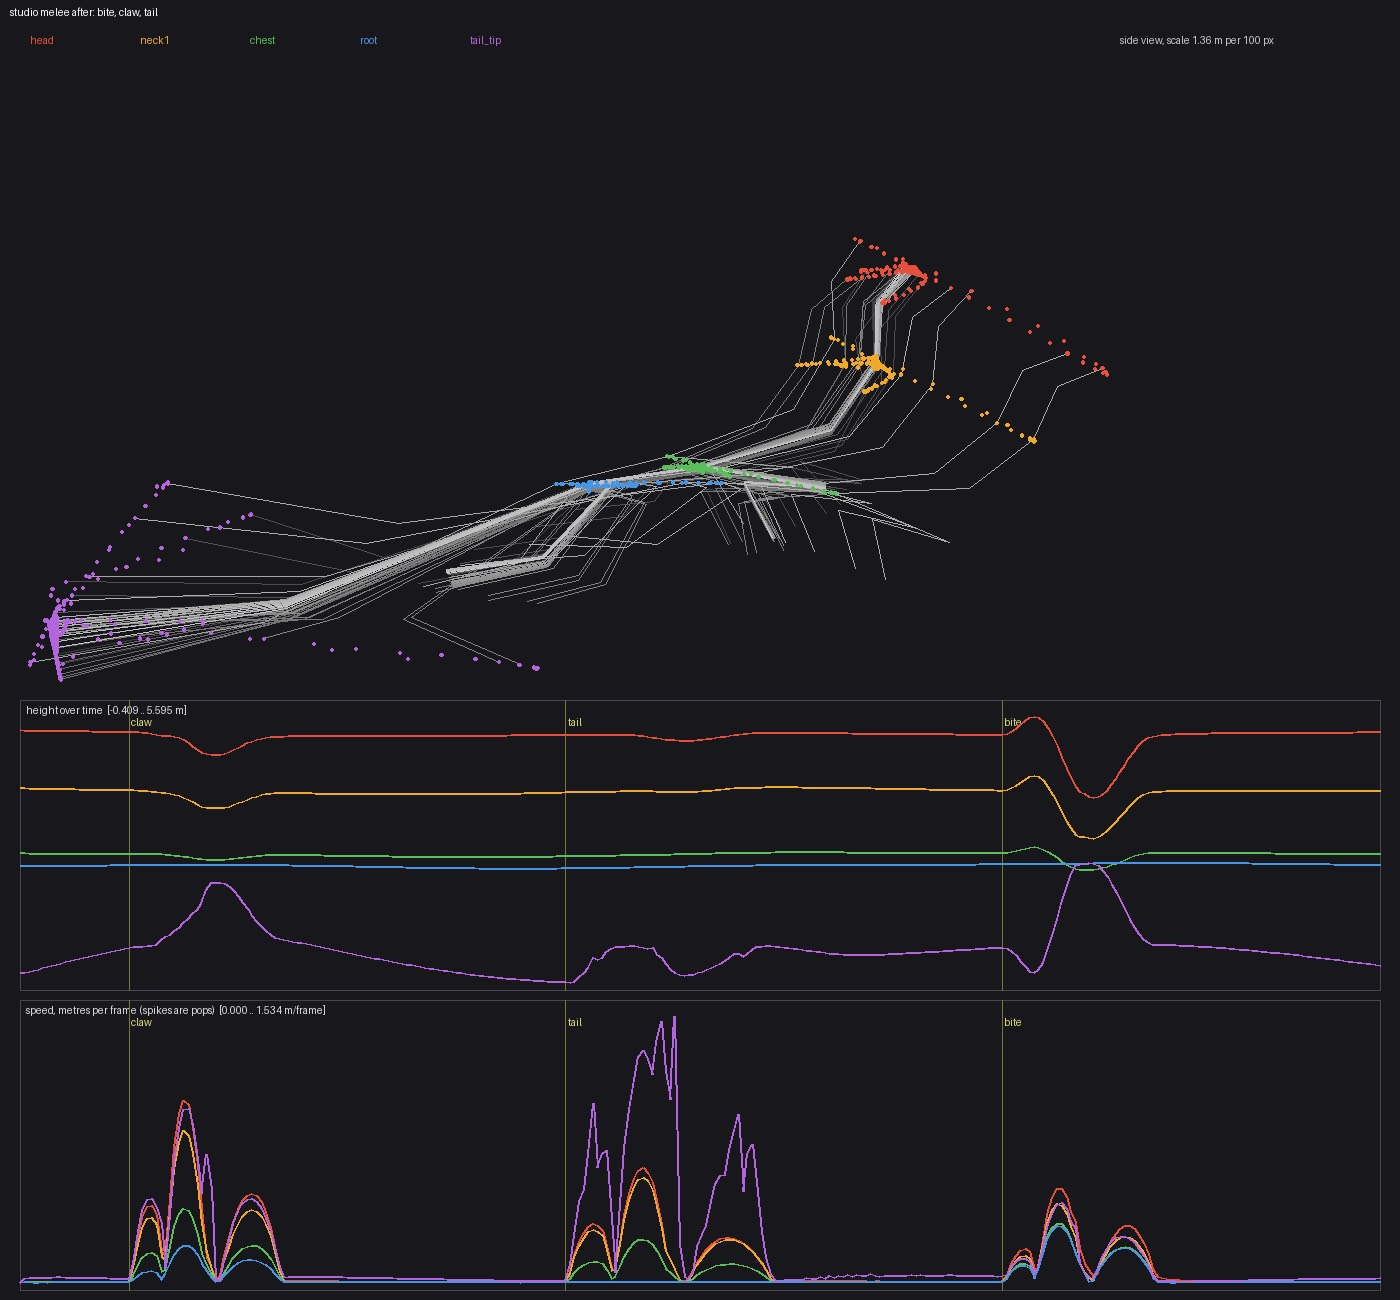
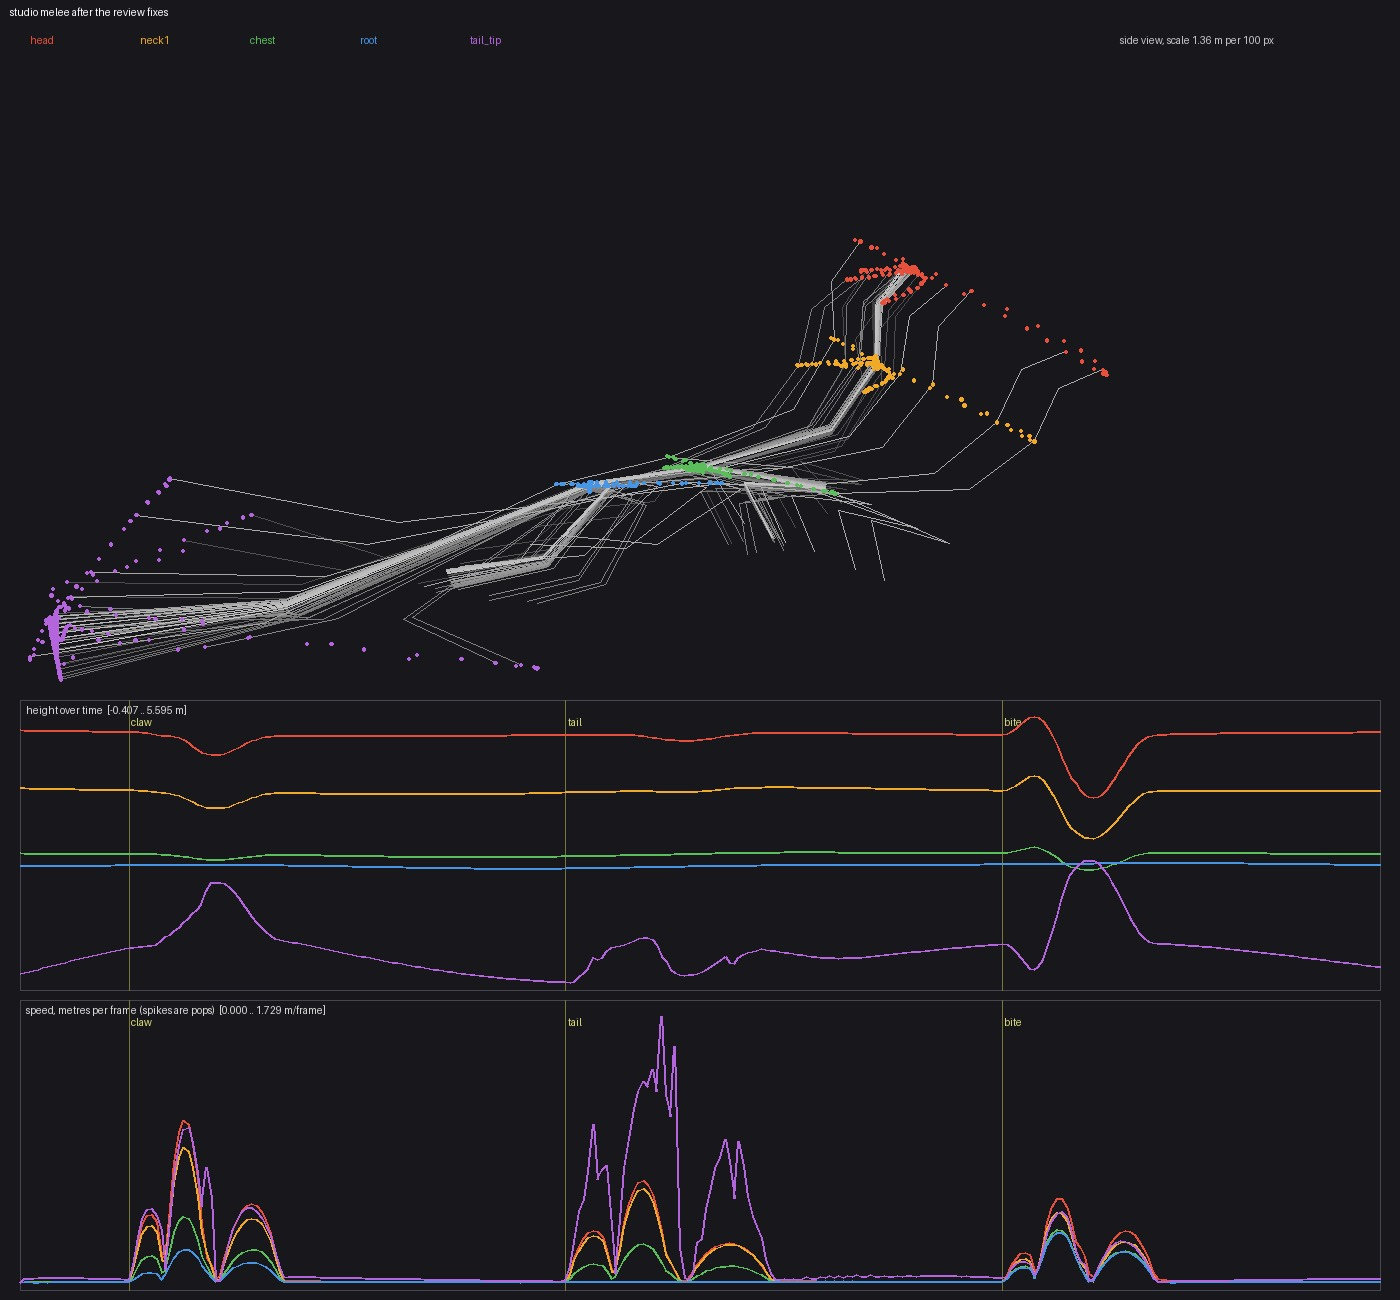
Rig: fix seven defects a Codex review found in the neck, brake and melee
- The brake springs integrated explicitly and ran away at the sliders' top
  (rate 20, damping 1.5) on a 30 Hz frame: the body turned 178 degrees.
  They now take an implicit step.
- hold_head skipped its positional solve on a neck straight at rest (the
  generated rig) and on a one-joint neck. It now falls back to the joint
  halfway along, or to the base alone.
- The head ride's spring lag held the head nearly still at any hold above
  zero, and the hold switched off with a jump. The correction fades in
  over the first quarter of beat_head_hold.
- With no wind-up the body envelope started at 10% on the press frame.
- The strike's recovery stopped dead at its end, and the contact shudder
  began at two thirds of its size. Both now start and end at zero.
- A change to the kick-ramp slider mid-kick delivered up to 135% of it.
  The ramp is now fixed when the kick begins.
- The melee speed test let a NaN through std::max.

test_rig_slider_extremes_stay_sane fails on the old code and passes now.

diff --git a/src/anim/dragon_rig.cpp b/src/anim/dragon_rig.cpp
@@ -1409,8 +1409,10 @@ float gesture_strike(float u, float a) {
     if (v < kStrikeOut + kStrikeHold) return 1.0f;
     const float w = (v - kStrikeOut - kStrikeHold) / (1.0f - kStrikeOut - kStrikeHold);
     // Smoothstep's complement, less a dip that crosses rest late in the
-    // recovery (about 7% below it at w = 0.85) and returns to rest at w = 1.
-    return (1.0f - w) * (1.0f - w) * (1.0f + 2.0f * w) - 1.2f * w * w * (1.0f - w);
+    // recovery (5% below it at w = 0.75). The double root at w = 1 lands it
+    // at rest with no speed: the earlier dip, 1.2 w^2 (1 - w), was still
+    // moving there and stopped dead on the gesture's last frame.
+    return (1.0f - w) * (1.0f - w) * (1.0f + 2.0f * w - 6.0f * w * w);
 }
 // The body's share of a gesture: broad and slow, from late in the wind-up
 // through the strike and back, so the body leads and the limb or the jaws
@@ -1424,16 +1426,29 @@ float gesture_body(float u, float a) {
     // It starts just before the strike, not earlier: begun across the
     // wind-up it cancelled the wind-up's turn away, and the anticipation
     // with it.
-    return core::smoothstep(0.0f, a, u) * core::smoothstep(-0.1f, 0.4f, v) *
+    // (The floor on a keeps it zero at the press with no wind-up at all.)
+    return core::smoothstep(0.0f, core::maxf(a, 0.02f), u) * core::smoothstep(-0.1f, 0.4f, v) *
            (1.0f - core::smoothstep(0.45f, 1.0f, v));
 }
-// How far into the contact hold the strike is: 1 at its start, fading out
-// through it; 0 elsewhere. Drives the impact shudder.
-float gesture_impact(float u, float a) {
+// The impact shudder through the contact hold: 14 Hz, its clock started at
+// the hold so it begins at zero, fading to nothing by the hold's end. Timed
+// from the gesture's start it jumped to two thirds of its size on the
+// hold's first frame. `duration` is the whole gesture's, in seconds.
+float gesture_impact(float u, float a, float duration) {
     if (u < a || u >= 1.0f) return 0.0f;
     const float v = (u - a) / core::maxf(1.0f - a, 1e-3f);
     if (v < kStrikeOut || v >= kStrikeOut + kStrikeHold) return 0.0f;
-    return 1.0f - (v - kStrikeOut) / kStrikeHold;
+    const float held = (v - kStrikeOut) * (1.0f - a) * duration;
+    return (1.0f - (v - kStrikeOut) / kStrikeHold) * std::sin(core::TWO_PI * 14.0f * held);
+}
+// One step of a damped spring, x toward target, implicit in the spring and
+// the damping so no rate, damping or frame length can make it diverge. The
+// explicit step ran away at the sliders' top (rate 20, damping 1.5) on a
+// 30 Hz frame.
+void spring_step(float& x, float& v, float target, float omega, float zeta, float dt) {
+    v = (v + dt * omega * omega * (target - x)) / (1.0f + 2.0f * zeta * omega * dt + omega * omega * dt * dt);
+    x += v * dt;
+    if (!std::isfinite(x) || !std::isfinite(v)) x = v = 0.0f;
 }
 // Overlap the extremities behind the torso, but still finish at u == 1.
 float gesture_trail(float u, float a, float lag) {
@@ -1470,9 +1485,7 @@ void DragonRig::drive_gestures() {
         gesture_neck_pitch_deg_ += tuning.bite_lunge_deg * (0.45f * wind - gesture_trail(u, a, 0.06f));
         // Contact: a short, fast shudder through the body, the
         // high-frequency detail a slow, heavy strike otherwise loses.
-        const float impact = gesture_impact(u, a);
-        gesture_pitch_ += core::radians(tuning.gesture_impact_deg) * impact *
-                          std::sin(core::TWO_PI * 14.0f * bite_time_);
+        gesture_pitch_ += core::radians(tuning.gesture_impact_deg) * gesture_impact(u, a, tuning.bite_duration);
     }
     // Claw: away, then roll and yaw into the strike side; the near wing
     // drops, the far one rises, the head dips to the mark, the tail balances.
@@ -1493,8 +1506,7 @@ void DragonRig::drive_gestures() {
         const float neck = gesture_trail(u, a, 0.06f);
         gesture_neck_yaw_deg_ += tuning.gesture_neck_deg * side * neck;
         gesture_neck_pitch_deg_ -= tuning.gesture_neck_deg * 0.5f * neck;
-        gesture_roll_ += core::radians(tuning.gesture_impact_deg) * gesture_impact(u, a) *
-                         std::sin(core::TWO_PI * 14.0f * claw_time_);
+        gesture_roll_ += core::radians(tuning.gesture_impact_deg) * gesture_impact(u, a, tuning.claw_duration);
         gesture_tail_yaw_deg_ -= tuning.gesture_tail_counter_deg * side *
                                  (gesture_trail(u, a, 0.12f) - 0.4f * wind);
         gesture_limb_rake_ = gesture_trail(u, a, 0.04f) - 0.22f * wind;
@@ -1588,14 +1600,17 @@ void DragonRig::drive_life(const game::FlightState& state) {
 
 void DragonRig::add_kick(PendingKick& kick, Vec3 velocity) {
     // Whatever the last kick had not yet delivered rides on with this one.
-    const float ramp = core::maxf(tuning.gesture_kick_ramp, 1e-3f);
-    const float delivered = kick.time < ramp ? 0.5f * (1.0f - std::cos(core::PI * kick.time / ramp)) : 1.0f;
+    const float delivered =
+        kick.time < kick.ramp ? 0.5f * (1.0f - std::cos(core::PI * kick.time / kick.ramp)) : 1.0f;
     kick.velocity = kick.velocity * (1.0f - delivered) + velocity;
     kick.time = 0.0f;
+    // The ramp is fixed when the kick begins: read from the slider each
+    // frame, a change mid-kick delivered up to 135% of it, or dropped the rest.
+    kick.ramp = core::maxf(tuning.gesture_kick_ramp, 1e-3f);
 }
 
 void DragonRig::apply_kick(PendingKick& kick, ChainDynamics& sim, int weight_power, float dt) {
-    const float ramp = core::maxf(tuning.gesture_kick_ramp, 1e-3f);
+    const float ramp = kick.ramp;
     if (kick.time >= ramp || sim.velocity.size() < 2) {
         kick.time = 1e9f;
         return;
@@ -1702,7 +1717,10 @@ void DragonRig::hold_head() {
             head_ride_ = head_ride_velocity_ = Vec3::zero();
         }
     }
-    const Vec3 wanted = head_still + head_ride_;
+    // Faded in over the first quarter of the hold: the spring's lag alone
+    // would hold the head almost still at any hold above zero, and the
+    // correction would switch off with a jump at the threshold.
+    const Vec3 wanted = core::lerp(head_now, head_still + head_ride_, core::smoothstep(0.0f, 0.25f, hold));
     // The neck bends in the body's side plane, about model X, over its base
     // and middle joints: signed angles in that plane, so the bend cannot flip
     // the way a 3D cross product does as the neck straightens -- that popped
@@ -1731,6 +1749,10 @@ void DragonRig::hold_head() {
         const float bend = std::fabs(rest_bend(joints_.neck[i]));
         if (bend > deepest) { deepest = bend; middle = joints_.neck[i]; }
     }
+    // A neck straight at rest (the generated test rig's) has no deepest bend:
+    // take the joint halfway along, which the damping keeps from snapping.
+    // A one-joint neck solves over its base alone.
+    if (middle == NO_PARENT && joints_.neck.size() >= 2) middle = joints_.neck[joints_.neck.size() / 2];
     // Damped least squares over the base and the deepest joint: each step
     // turns them by J^T (J J^T + lambda^2 I)^-1 times the head's error, J the
     // head's motion per radian of each. Unlike an exact two-bone solve it has
@@ -1740,7 +1762,8 @@ void DragonRig::hold_head() {
     // straight -- popped the middle of the neck twice a beat.
     // A small turn theta about model X moves a point at r from the pivot by
     // theta * (-r.z, r.y) in (y, z); in (z, y) coordinates that is (r.y, -r.z).
-    if (middle != NO_PARENT) {
+    {
+        const int count = middle != NO_PARENT ? 2 : 1;
         const float lambda = 0.18f * len2(core::Vec2{
             yz(world_[size_t(head)].col[3].xyz()).x - yz(world_[size_t(base)].col[3].xyz()).x,
             yz(world_[size_t(head)].col[3].xyz()).y - yz(world_[size_t(base)].col[3].xyz()).y});
@@ -1748,8 +1771,8 @@ void DragonRig::hold_head() {
             const core::Vec2 h = yz(world_[size_t(head)].col[3].xyz());
             const core::Vec2 e{yz(wanted).x - h.x, yz(wanted).y - h.y};
             const int pivots[2] = {base, middle};
-            core::Vec2 col[2];
-            for (int k = 0; k < 2; ++k) {
+            core::Vec2 col[2] = {};
+            for (int k = 0; k < count; ++k) {
                 const core::Vec2 p = yz(world_[size_t(pivots[k])].col[3].xyz());
                 const core::Vec2 r{h.x - p.x, h.y - p.y};
                 col[k] = core::Vec2{r.y, -r.x};
@@ -1761,7 +1784,7 @@ void DragonRig::hold_head() {
             const float det = a11 * a22 - a12 * a12;
             if (std::fabs(det) < 1e-12f) break;
             const core::Vec2 w{(a22 * e.x - a12 * e.y) / det, (a11 * e.y - a12 * e.x) / det};
-            for (int k = 0; k < 2; ++k) {
+            for (int k = 0; k < count; ++k) {
                 const float turn = col[k].x * w.x + col[k].y * w.y;
                 rotate_joint_about(pivots[k], Vec3::unit_x(), core::clampf(turn, -0.3f, 0.3f));
             }
@@ -2192,10 +2215,7 @@ void DragonRig::drive_legs(const game::FlightState& state, Vec3 frame_accelerati
             const float zeta = core::clampf(tuning.leg_brake_damping, 0.2f, 2.0f);
             float& x = leg_brake_stage_[side][stage];
             float& v = leg_brake_stage_velocity_[side][stage];
-            const float step = core::minf(dt, 1.0f / 30.0f);
-            v += (omega * omega * (target - x) - 2.0f * zeta * omega * v) * step;
-            x += v * step;
-            if (!std::isfinite(x) || !std::isfinite(v)) x = v = 0.0f;
+            spring_step(x, v, target, omega, zeta, core::minf(dt, 1.0f / 30.0f));
             target = x;
         }
     }
@@ -2861,13 +2881,8 @@ void DragonRig::update(const game::FlightState& engine_state, float dt) {
         // (drive_legs) starts from the same signal, slower.
         const float omega = 1.3f * core::maxf(tuning.leg_brake_rate, 0.5f);
         const float zeta = core::clampf(tuning.leg_brake_damping, 0.2f, 2.0f);
-        const float step = core::minf(dt, 1.0f / 30.0f);
-        brake_body_velocity_ += (omega * omega * (core::saturate(state.wing_brake) - brake_body_) -
-                                 2.0f * zeta * omega * brake_body_velocity_) * step;
-        brake_body_ += brake_body_velocity_ * step;
-        if (!std::isfinite(brake_body_) || !std::isfinite(brake_body_velocity_)) {
-            brake_body_ = brake_body_velocity_ = 0.0f;
-        }
+        spring_step(brake_body_, brake_body_velocity_, core::saturate(state.wing_brake), omega, zeta,
+                    core::minf(dt, 1.0f / 30.0f));
     }
     drive_gestures();
     drive_life(state);

diff --git a/tests/test_anim.cpp b/tests/test_anim.cpp
@@ -1906,6 +1906,60 @@ void test_legs_swing_with_the_frame() {
 
 // Compare braced limbs to the same pose with zero passive sway. Local thigh
 // directions isolate the leg response from the root's brake flare and neck.
+// The sliders' corners stay sane (from a review of the 2026-11-04 rig work).
+// At the brake sliders' top (rate 20, damping 1.5) on a 30 Hz frame the
+// explicit springs ran away to hundreds of radians; with no wind-up at all
+// (`gesture_anticipation` 0) a claw rolled the body a tenth of its swing on
+// the press frame.
+void test_rig_slider_extremes_stay_sane() {
+    Skeleton skeleton;
+    anim::SkinnedMeshData mesh;
+    anim::DragonJoints joints;
+    anim::build_dragon(anim::DragonShape{}, skeleton, joints, mesh);
+    game::FlightState state;
+    state.velocity = Vec3{0, 0, -30};
+    state.airspeed = 30;
+    state.ground_clearance = 300;
+    {
+        anim::DragonRig rig;
+        rig.init(skeleton, joints);
+        still_air(rig.tuning);
+        rig.tuning.leg_brake_rate = 20.0f;
+        rig.tuning.leg_brake_damping = 1.5f;
+        for (int i = 0; i < 30; ++i) rig.update(state, 1.0f / 30.0f);
+        const auto level = core::quat_from_matrix(rig.world_matrices()[size_t(joints.root)]);
+        state.wing_brake = 1.0f;
+        // A runaway angle wraps, so positions stay finite: the check is the
+        // body's turn, which the brake keeps to its pitch dial.
+        float worst = 0.0f;
+        for (int i = 0; i < 120; ++i) {
+            rig.update(state, 1.0f / 30.0f);
+            const auto now = core::quat_from_matrix(rig.world_matrices()[size_t(joints.root)]);
+            worst = std::max(worst, core::degrees(2.0f * std::acos(std::min(1.0f, std::fabs(core::dot(now, level))))));
+        }
+        std::printf("  brake at the sliders' top: the body turns at most %.1f degrees\n", double(worst));
+        CHECK(worst < rig.tuning.brake_body_pitch_deg * 1.5f + 5.0f);
+        state.wing_brake = 0.0f;
+    }
+    {
+        anim::DragonRig rig;
+        rig.init(skeleton, joints);
+        still_air(rig.tuning);
+        rig.tuning.gesture_anticipation = 0.0f;
+        for (int i = 0; i < 120; ++i) rig.update(state, 1.0f / 120.0f);
+        const auto rest = core::quat_from_matrix(rig.world_matrices()[size_t(joints.root)]);
+        anim::RigAction action;
+        action.claw = true;
+        action.side = 1.0f;
+        rig.set_action(action);
+        rig.update(state, 1.0f / 120.0f);
+        const auto pressed = core::quat_from_matrix(rig.world_matrices()[size_t(joints.root)]);
+        const float turn = 2.0f * std::acos(std::min(1.0f, std::fabs(core::dot(pressed, rest))));
+        std::printf("  no wind-up: the claw turns the body %.3f degrees on the press frame\n",
+                    double(core::degrees(turn)));
+        CHECK(core::degrees(turn) < 0.5f);
+    }
+}
 void test_legs_brace_during_active_postures() {
     namespace fs = std::filesystem;
     const fs::path root = test_source_root();
@@ -2923,6 +2977,8 @@ void test_life_in_flight() {
             const auto& w = rig.world_matrices();
             const Vec3 head = w[size_t(joints.head)].col[3].xyz() * 13.6773f;
             const Vec3 root = w[size_t(joints.root)].col[3].xyz() * 13.6773f;
+            // A NaN would slip past std::max and pass the speed limits.
+            CHECK(std::isfinite(head.x + head.y + head.z + root.x + root.y + root.z));
             if (i > 60) {
                 head_peak = std::max(head_peak, length(head - last_head) * 60.0f);
                 root_peak = std::max(root_peak, length(root - last_root) * 60.0f);
@@ -2981,6 +3037,7 @@ void test_life_in_flight() {
 
 int main() {
     test_life_in_flight();
+    test_rig_slider_extremes_stay_sane();
     test_tail_flow_is_continuous_and_releases_on_landing();
     test_static_gltf_loads_a_prop();
     test_melee_load_recovery_and_switch();

diff --git a/src/anim/dragon_rig.h b/src/anim/dragon_rig.h
@@ -889,6 +889,7 @@ private:
     struct PendingKick {
         core::Vec3 velocity{};
         float time = 1e9f;  // since the kick began; past the ramp when spent
+        float ramp = 0.1f;  // gesture_kick_ramp when the kick began
     };
     void add_kick(PendingKick& kick, core::Vec3 velocity);
     void apply_kick(PendingKick& kick, ChainDynamics& sim, int weight_power, float dt);

diff --git a/docs/ANIMATION.md b/docs/ANIMATION.md
@@ -289,8 +289,8 @@ settles with some overshoot. The changes:
 
 - The strike accelerates out (x squared over the first 30% after the wind-up)
   and holds at full reach for 12% of the swing. The return is
-  `(1-w)^2(1+2w) - 1.2 w^2 (1-w)`: it passes through rest and overshoots
-  before it settles.
+  `(1-w)^2 (1+2w-6w^2)`: it passes through rest, overshoots by 5%, and
+  lands at rest with no speed (a double root at w = 1).
 - The body's pitch, surge, roll, yaw and sway follow one envelope,
   `gesture_body`. It is zero at the press, stays loaded through the wind-up,
   and releases late. The neck channels trail it by 6% of the swing.
@@ -309,6 +309,29 @@ After: the head peaks at 63 m/s and the root at 19 m/s in `test_anim`
 bell (`artifacts/arcs/melee-after.jpg`). The tail tip's speed is still
 jagged through the whip. Renders of the bite, claw and tail on the roster
 are in `artifacts/melee-weight/`.
+
+A read-only Codex review (gpt-6-astra) of this pass and the neck and brake
+pass found seven defects, all fixed the same day:
+
+- The brake springs used an explicit step. At the sliders' top (rate 20,
+  damping 1.5) on a 30 Hz frame they ran away and turned the body 178
+  degrees. They now take an implicit step (`spring_step`), stable at any rate.
+- A neck straight at rest had no deepest bend, so `hold_head` skipped the
+  positional solve. It now takes the joint halfway along, and a one-joint
+  neck solves over its base alone.
+- The head ride's spring lag held the head almost still at any hold above
+  zero. The correction now fades in over the first quarter of
+  `beat_head_hold`.
+- With `gesture_anticipation` 0 the body envelope started at a tenth of the
+  swing. It now starts at zero.
+- The recovery stopped dead at its end, and the contact shudder started at
+  two thirds of its size. Both now start and end at zero.
+- A kick read its ramp from the slider every frame, so a change mid-kick
+  delivered up to 135% of it. The ramp is now fixed when the kick begins.
+- The melee speed test passed a NaN. It now checks each position is finite.
+
+`test_rig_slider_extremes_stay_sane` covers the first and the fourth; both
+fail on the code before the fixes.
 
 Studio's speed now scales the rig as well as its scenario clock; use
 `--studio-speed 0.5` or the speed slider. Scenarios 8/10/11/12 expose the

diff --git a/artifacts/melee-weight/README.md b/artifacts/melee-weight/README.md
@@ -9,3 +9,10 @@ roster, rendered after the change:
 - `roster.jpg`: the bite, the head close, the claw and the tail on every species.
 
 The traces before and after are in `artifacts/arcs/melee-*.jpg`.
+
+After the review fixes (`ANIMATION.md`, the end of "Weight in the strike"):
+
+- `roster-melee.jpg`: per species, the bite, the bite 21 frames later in its
+  return, the head close in the bite, the claw and the tail.
+- `roster-brake.jpg`: per species, the brake from the side and the front,
+  the head in the flap, and a landing.
